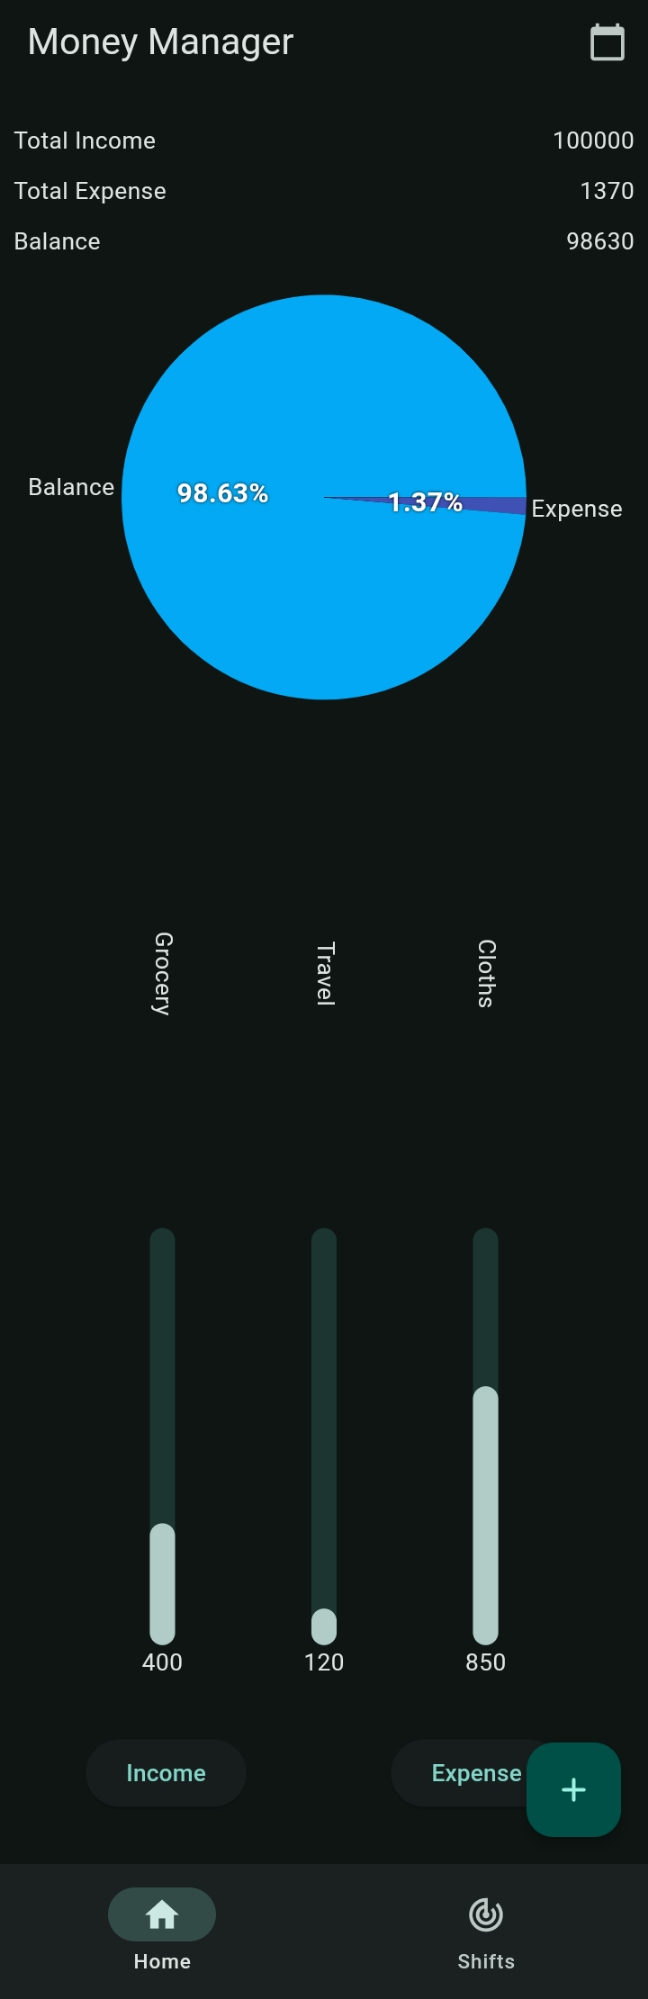
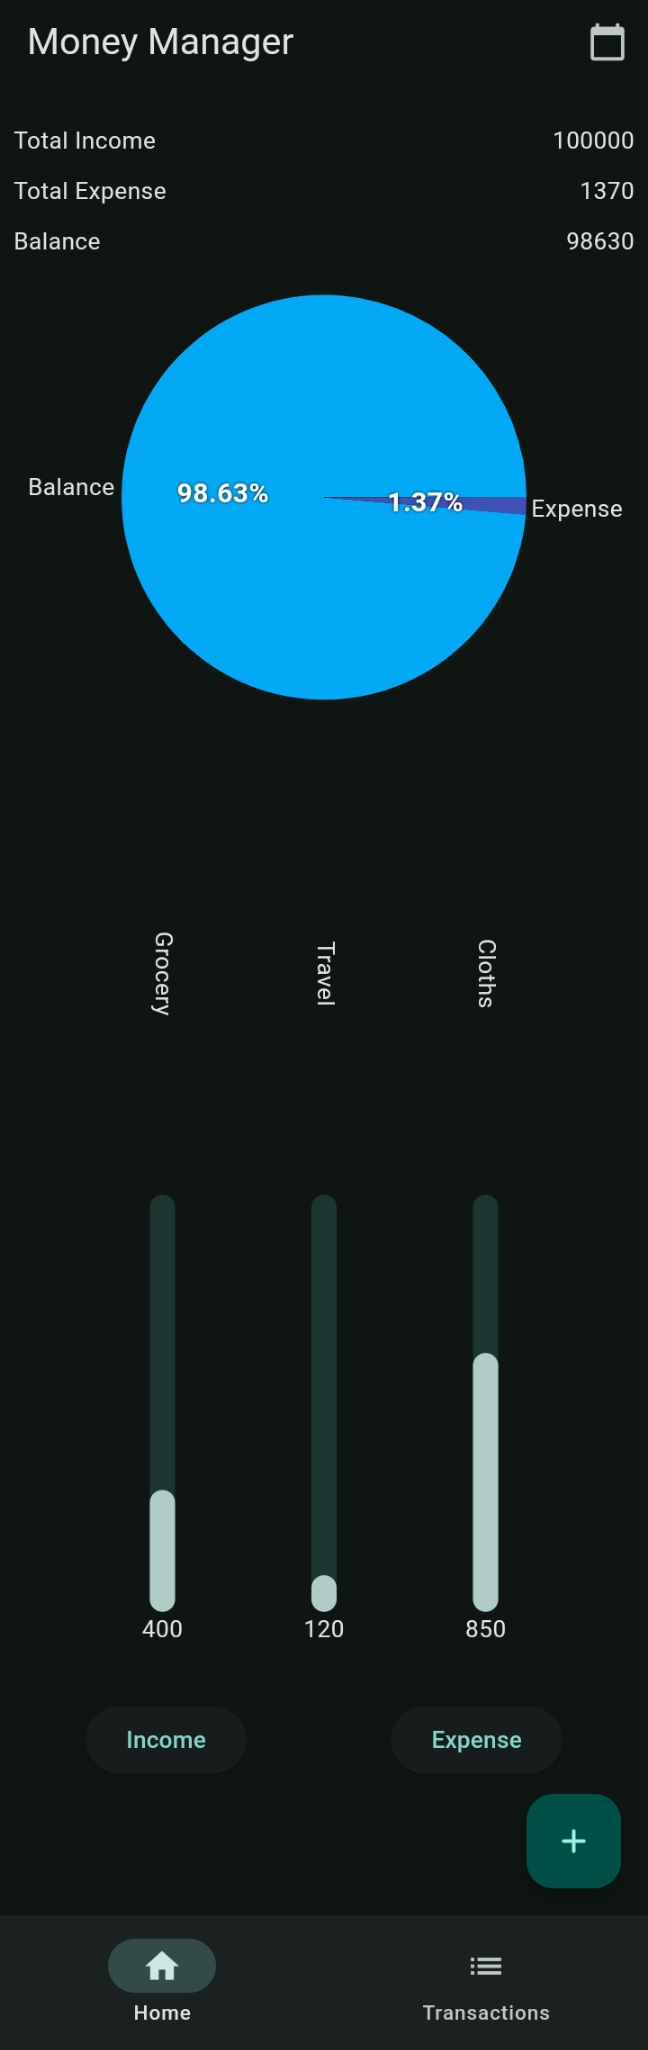
typo fix

diff --git a/lib/application/pages/navbar/navbar.dart b/lib/application/pages/navbar/navbar.dart
@@ -15,8 +15,8 @@ class NavBarPage extends StatefulWidget {
       label: 'Home',
     ),
     NavigationDestination(
-      icon: Icon(Icons.track_changes),
-      label: 'Shifts',
+      icon: Icon(Icons.list),
+      label: 'Transactions',
     ),
   ];
 
